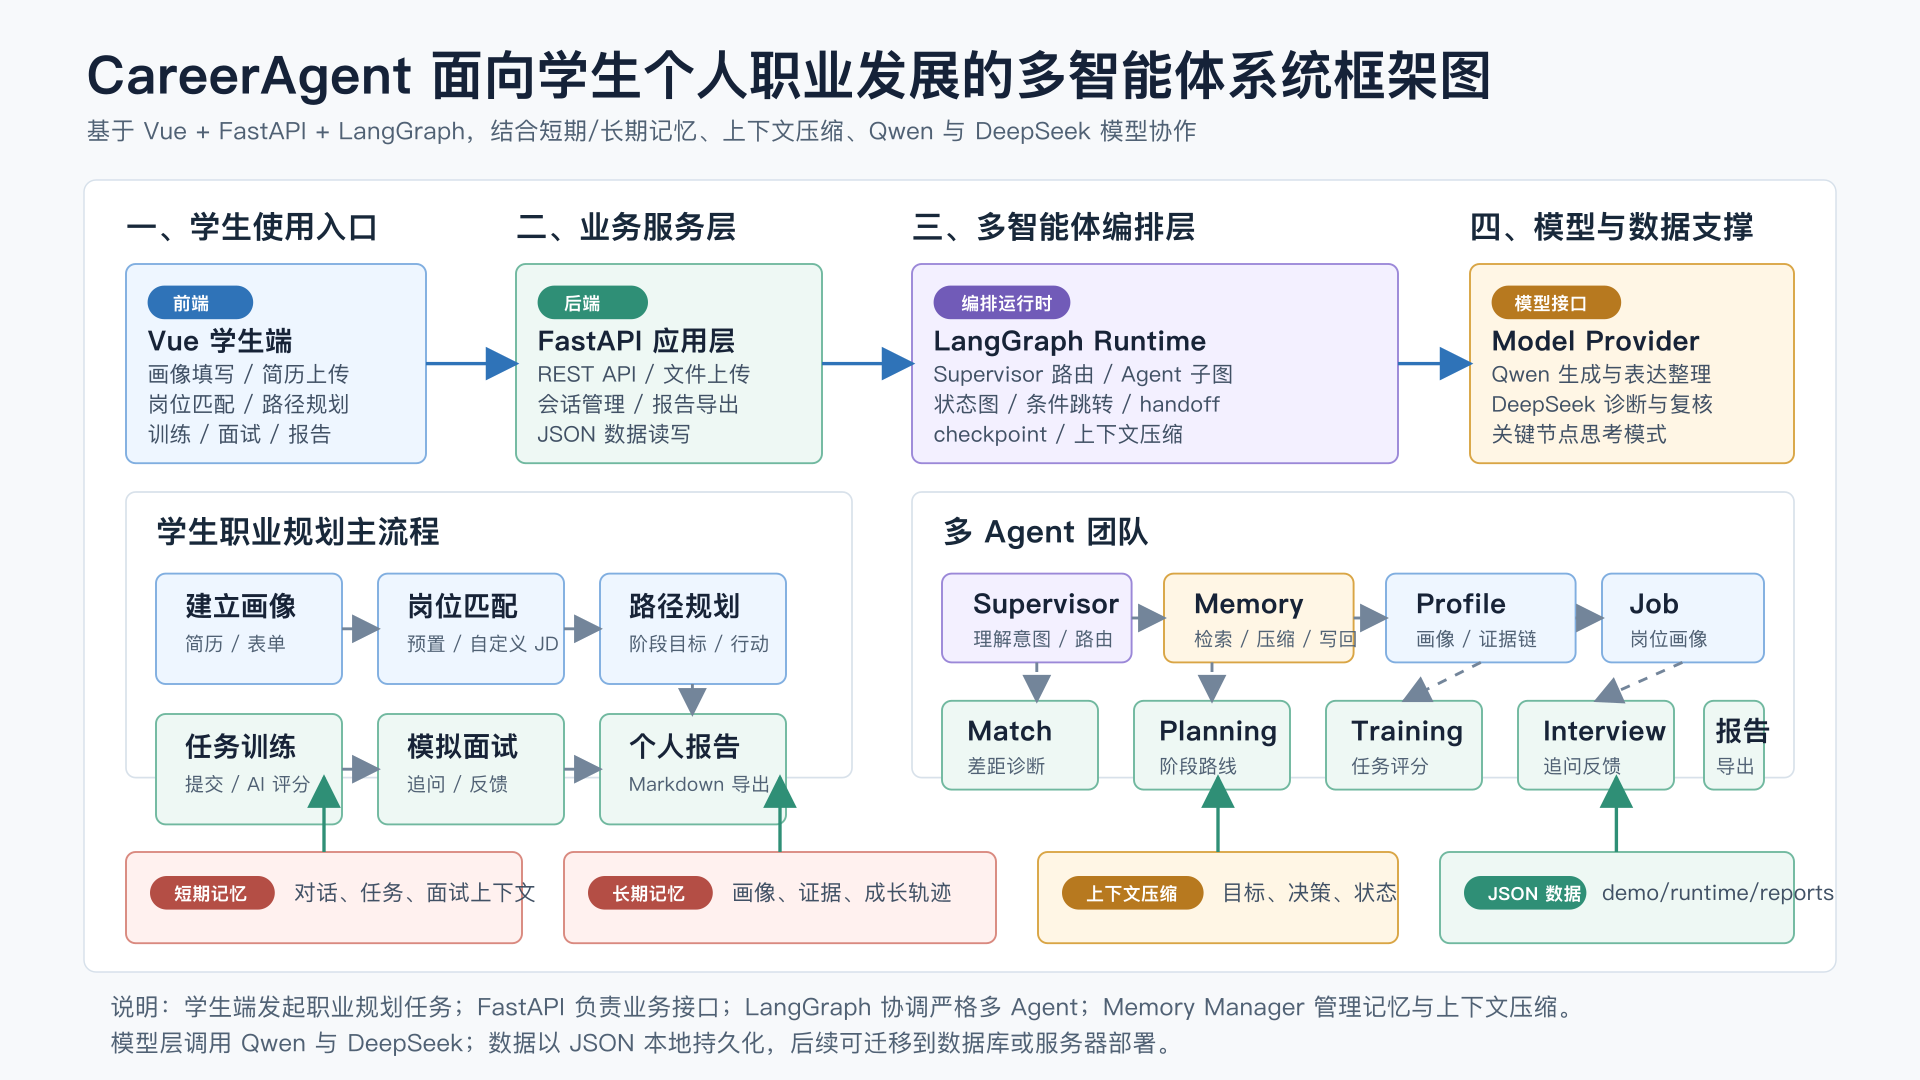
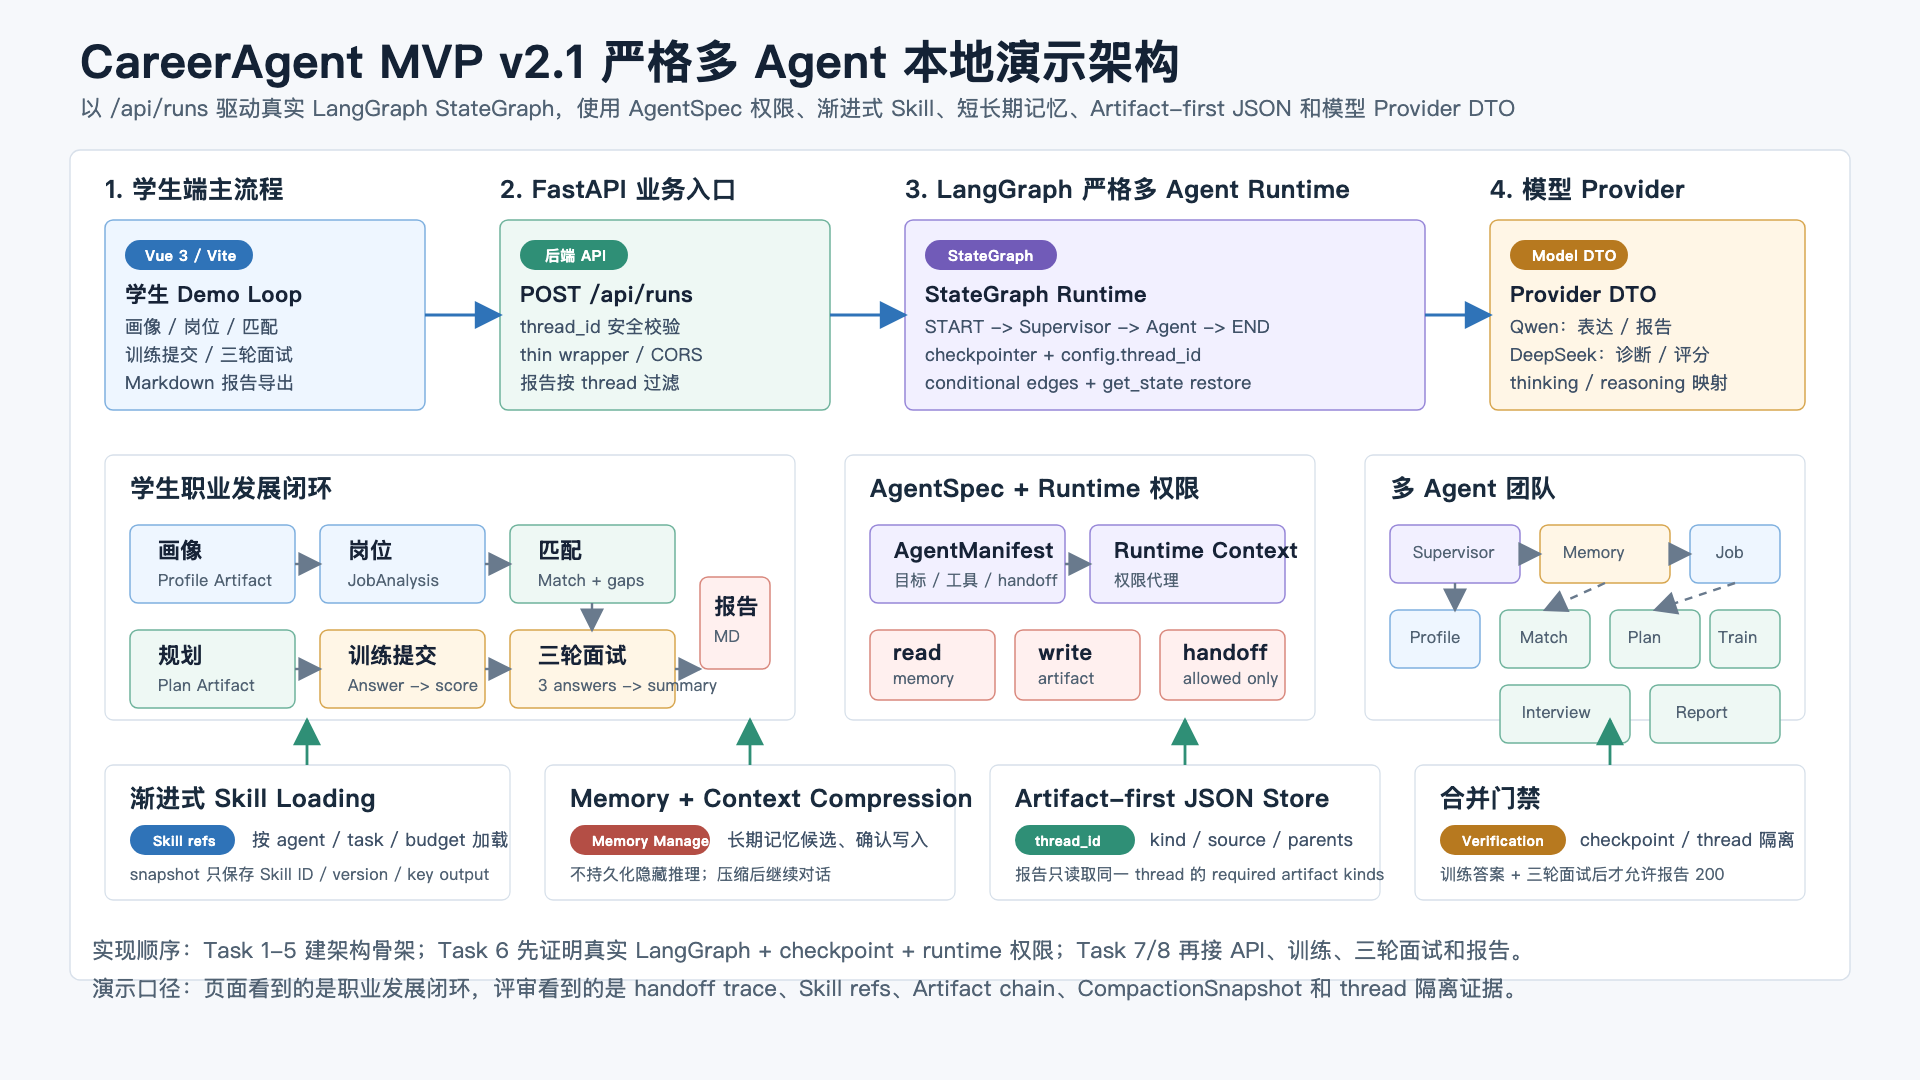
Update CareerAgent diagram and final coding gates

Changed region(s): [[0.0312, 0.0306, 0.9688, 0.9778]]

diff --git a/docs/superpowers/plans/2026-05-31-careeragent-mvp-implementation-v2.md b/docs/superpowers/plans/2026-05-31-careeragent-mvp-implementation-v2.md
@@ -727,7 +727,13 @@ class AgentRuntime(Protocol):
     def load_skills(self, agent_id: str, task_type: str) -> list[str]:
         ...
 
-    def save_artifact(self, kind: str, payload: dict, source_agent: str, parents: list[str]) -> str:
+    def save_artifact(
+        self,
+        kind: str,
+        artifact_id: str,
+        payload: dict,
+        parent_artifact_ids: list[str] | None = None,
+    ) -> str:
         ...
 
 
@@ -1589,6 +1595,8 @@ compiled.invoke(
 )
 ```
 
+`run_career_graph()` must not create a fresh isolated in-memory checkpointer per request. For the local MVP, use a module-level cached compiled graph/checkpointer so repeated `/api/runs` calls in the same process share LangGraph thread state. Service restart recovery can rely on the JSON Artifact chain; a JSON or SQLite checkpointer can replace the in-memory checkpointer later.
+
 No `graph_kind == "langgraph"` marker is sufficient evidence by itself.
 
 - [ ] **Step 4: Implement runtime permission enforcement**
@@ -1830,15 +1838,26 @@ git commit -m "Add graph-backed API entrypoints"
 Append to `/Users/sss/careeragent/backend/tests/test_api_e2e.py`:
 
 ```python
-def test_backend_loop_creates_report_from_artifacts() -> None:
-    thread_id = "api-thread-loop"
-    for message in [
-        "我会 Python FastAPI，想匹配 Agent 开发岗位",
+def complete_demo_messages(marker: str | None = None) -> list[str]:
+    prefix = "我会 Python FastAPI，想匹配 Agent 开发岗位"
+    if marker:
+        prefix = f"{prefix}，唯一标记 {marker}"
+    return [
+        prefix,
         "生成三个月路径规划",
         "根据能力差距给我一个训练任务",
+        "我的训练答案：我会设计一个简历解析 Agent，使用 FastAPI 暴露接口，用 LangGraph 编排画像抽取和评分节点。",
         "开始模拟面试",
+        "回答1：我会用 StateGraph 定义节点和条件边。",
+        "回答2：我会用 thread_id 和 checkpointer 保留会话状态。",
+        "回答3：我会把评分结果保存为 Artifact 并进入报告。",
         "请导出 Markdown 报告",
-    ]:
+    ]
+
+
+def test_backend_loop_creates_report_from_artifacts() -> None:
+    thread_id = "api-thread-loop"
+    for message in complete_demo_messages():
         response = client.post("/api/runs", json={"thread_id": thread_id, "message": message})
         assert response.status_code == 200
 
@@ -1852,13 +1871,7 @@ def test_report_is_thread_isolated() -> None:
     thread_a = "api-thread-a"
     thread_b = "api-thread-b"
     for thread_id, marker in [(thread_a, "A-ONLY"), (thread_b, "B-ONLY")]:
-        for message in [
-            f"我会 Python FastAPI，想匹配 Agent 开发岗位，唯一标记 {marker}",
-            "生成三个月路径规划",
-            "根据能力差距给我一个训练任务",
-            "开始模拟面试",
-            "请导出 Markdown 报告",
-        ]:
+        for message in complete_demo_messages(marker):
             response = client.post("/api/runs", json={"thread_id": thread_id, "message": message})
             assert response.status_code == 200
 
@@ -1869,23 +1882,14 @@ def test_report_is_thread_isolated() -> None:
     assert "B-ONLY" not in report_a.text
 
     repo = JsonArtifactRepository(RUNTIME_DATA_DIR)
-    assert all(item["source_thread_id"] == thread_a for item in repo.list_by_thread(thread_a))
+    report_artifact = repo.get(f"report-{thread_a}-latest")
+    for parent_id in report_artifact["parent_artifact_ids"]:
+        assert repo.get(parent_id)["source_thread_id"] == thread_a
 
 
 def test_training_submission_and_three_turn_interview_are_artifact_backed() -> None:
     thread_id = "api-thread-training-interview"
-    messages = [
-        "我会 Python FastAPI，想匹配 Agent 开发岗位",
-        "生成三个月路径规划",
-        "根据能力差距给我一个训练任务",
-        "我的训练答案：我会设计一个简历解析 Agent，使用 FastAPI 暴露接口，用 LangGraph 编排画像抽取和评分节点。",
-        "开始模拟面试",
-        "回答1：我会用 StateGraph 定义节点和条件边。",
-        "回答2：我会用 thread_id 和 checkpointer 保留会话状态。",
-        "回答3：我会把评分结果保存为 Artifact 并进入报告。",
-    ]
-
-    for message in messages:
+    for message in complete_demo_messages():
         response = client.post("/api/runs", json={"thread_id": thread_id, "message": message})
         assert response.status_code == 200
 
